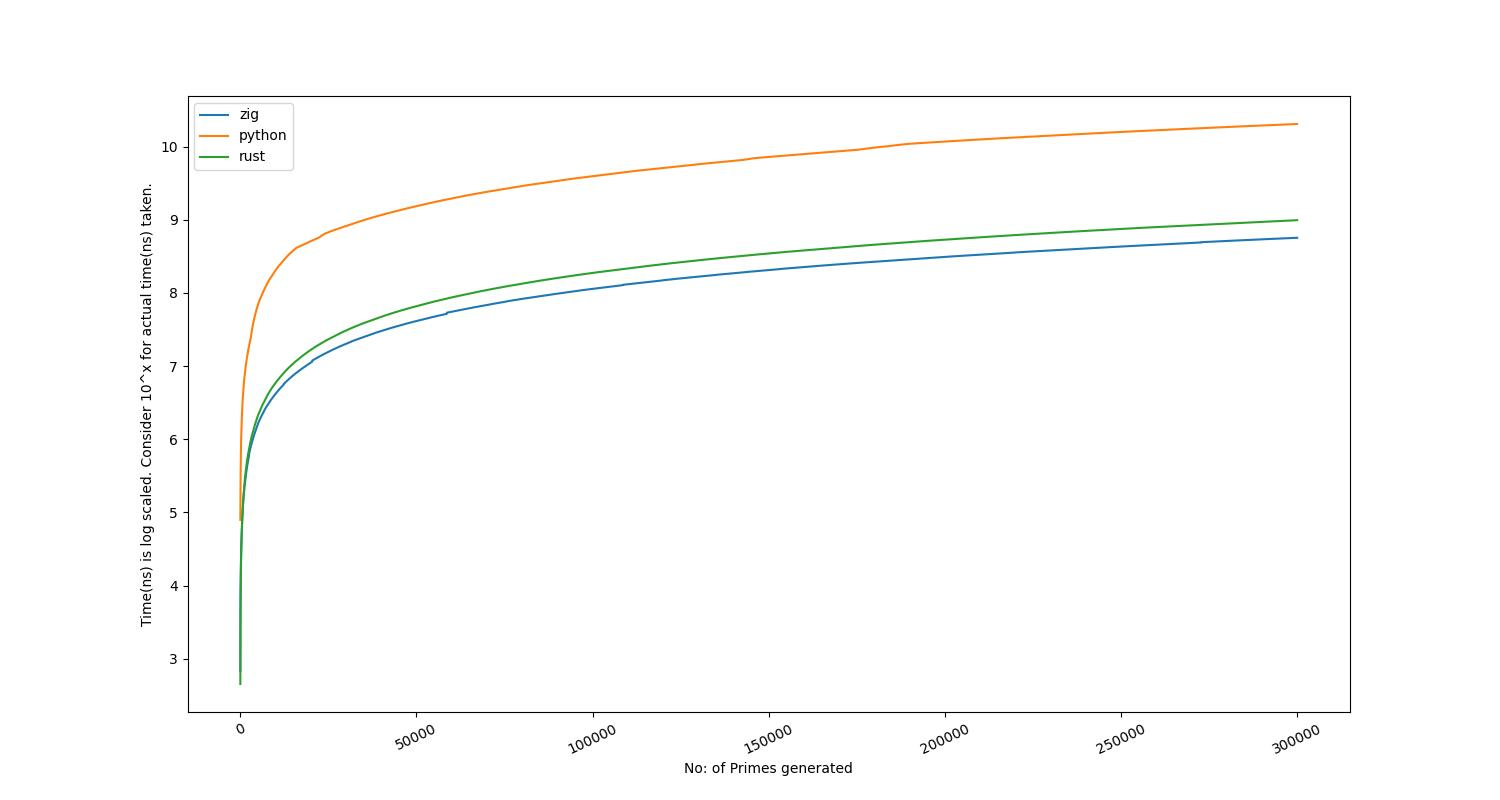
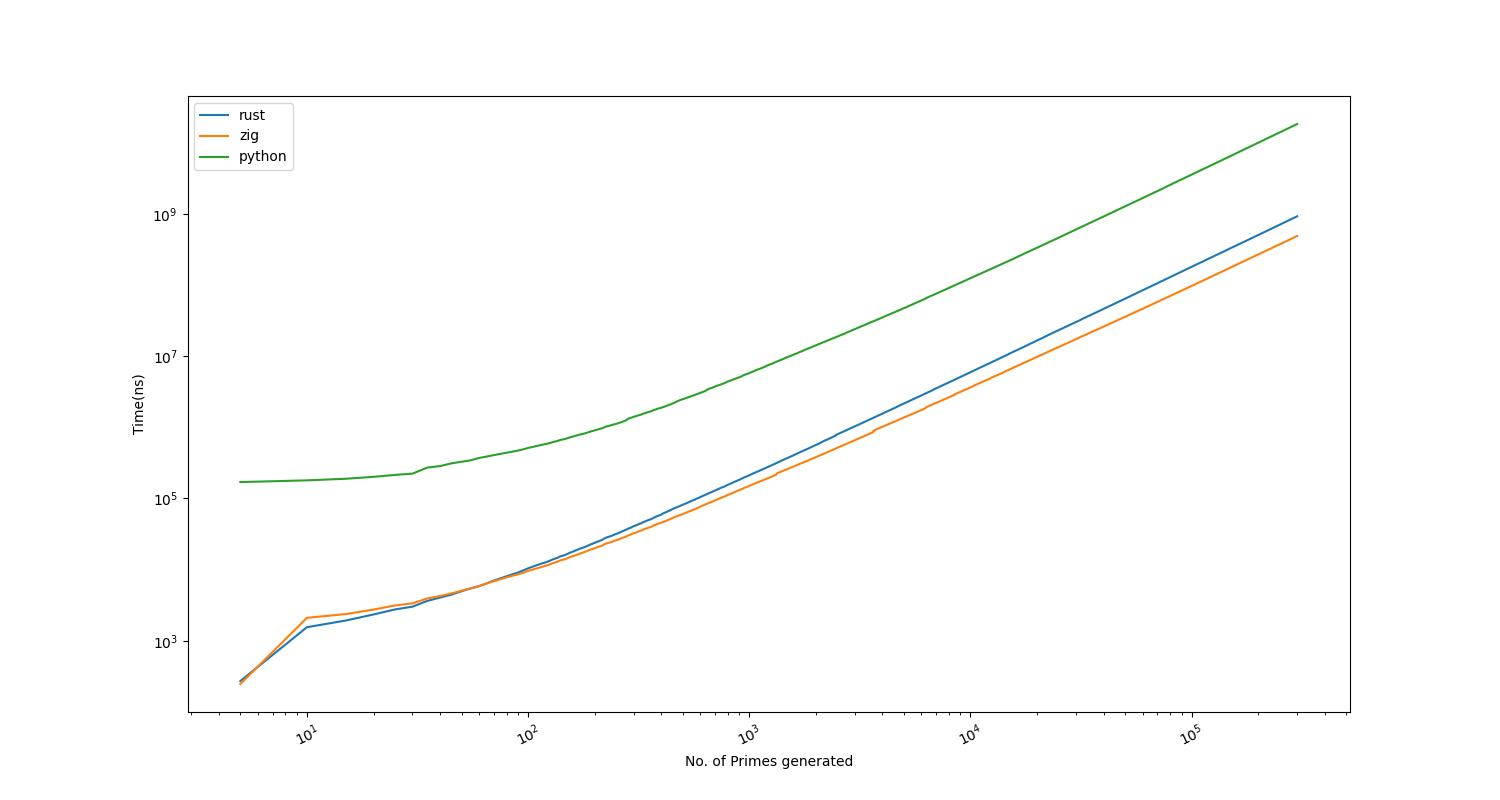
log-log plot

diff --git a/valid.py b/valid.py
@@ -72,11 +72,12 @@ def main():
         
         n_th_prime_time.append((lang, b_primes_items[-1][0],b_primes_items[-1][1][1]))
         X = list(map(lambda x: x[0],b_primes_items))
-        Y = list(map(lambda x: math.log10(x[1][1])
-                     ,b_primes_items))
+        Y = list(map(lambda x: x[1][1],b_primes_items))
         plt.xticks(rotation = 25)
-        plt.ylabel("Time(ns) is log scaled. Consider 10^x for actual time(ns) taken.")
-        plt.xlabel("No: of Primes generated")
+        plt.xscale('log')
+        plt.yscale('log')
+        plt.ylabel("Time(ns)")
+        plt.xlabel("No. of Primes generated")
         plt.plot(X,Y,label=lang)
 
     readme_content = add_table_readme_content(n_th_prime_time)

diff --git a/README.md b/README.md
@@ -7,6 +7,6 @@ Note: The above graph is autogenerated for every github action run. Tweak the pa
 
 |Language|nth prime|time taken|
 |---|---|---|
-|zig|300000|0.567s|
-|python|300000|20.357s|
-|rust|300000|0.987s|
+|rust|300000|0.924s|
+|zig|300000|0.489s|
+|python|300000|18.333s|
